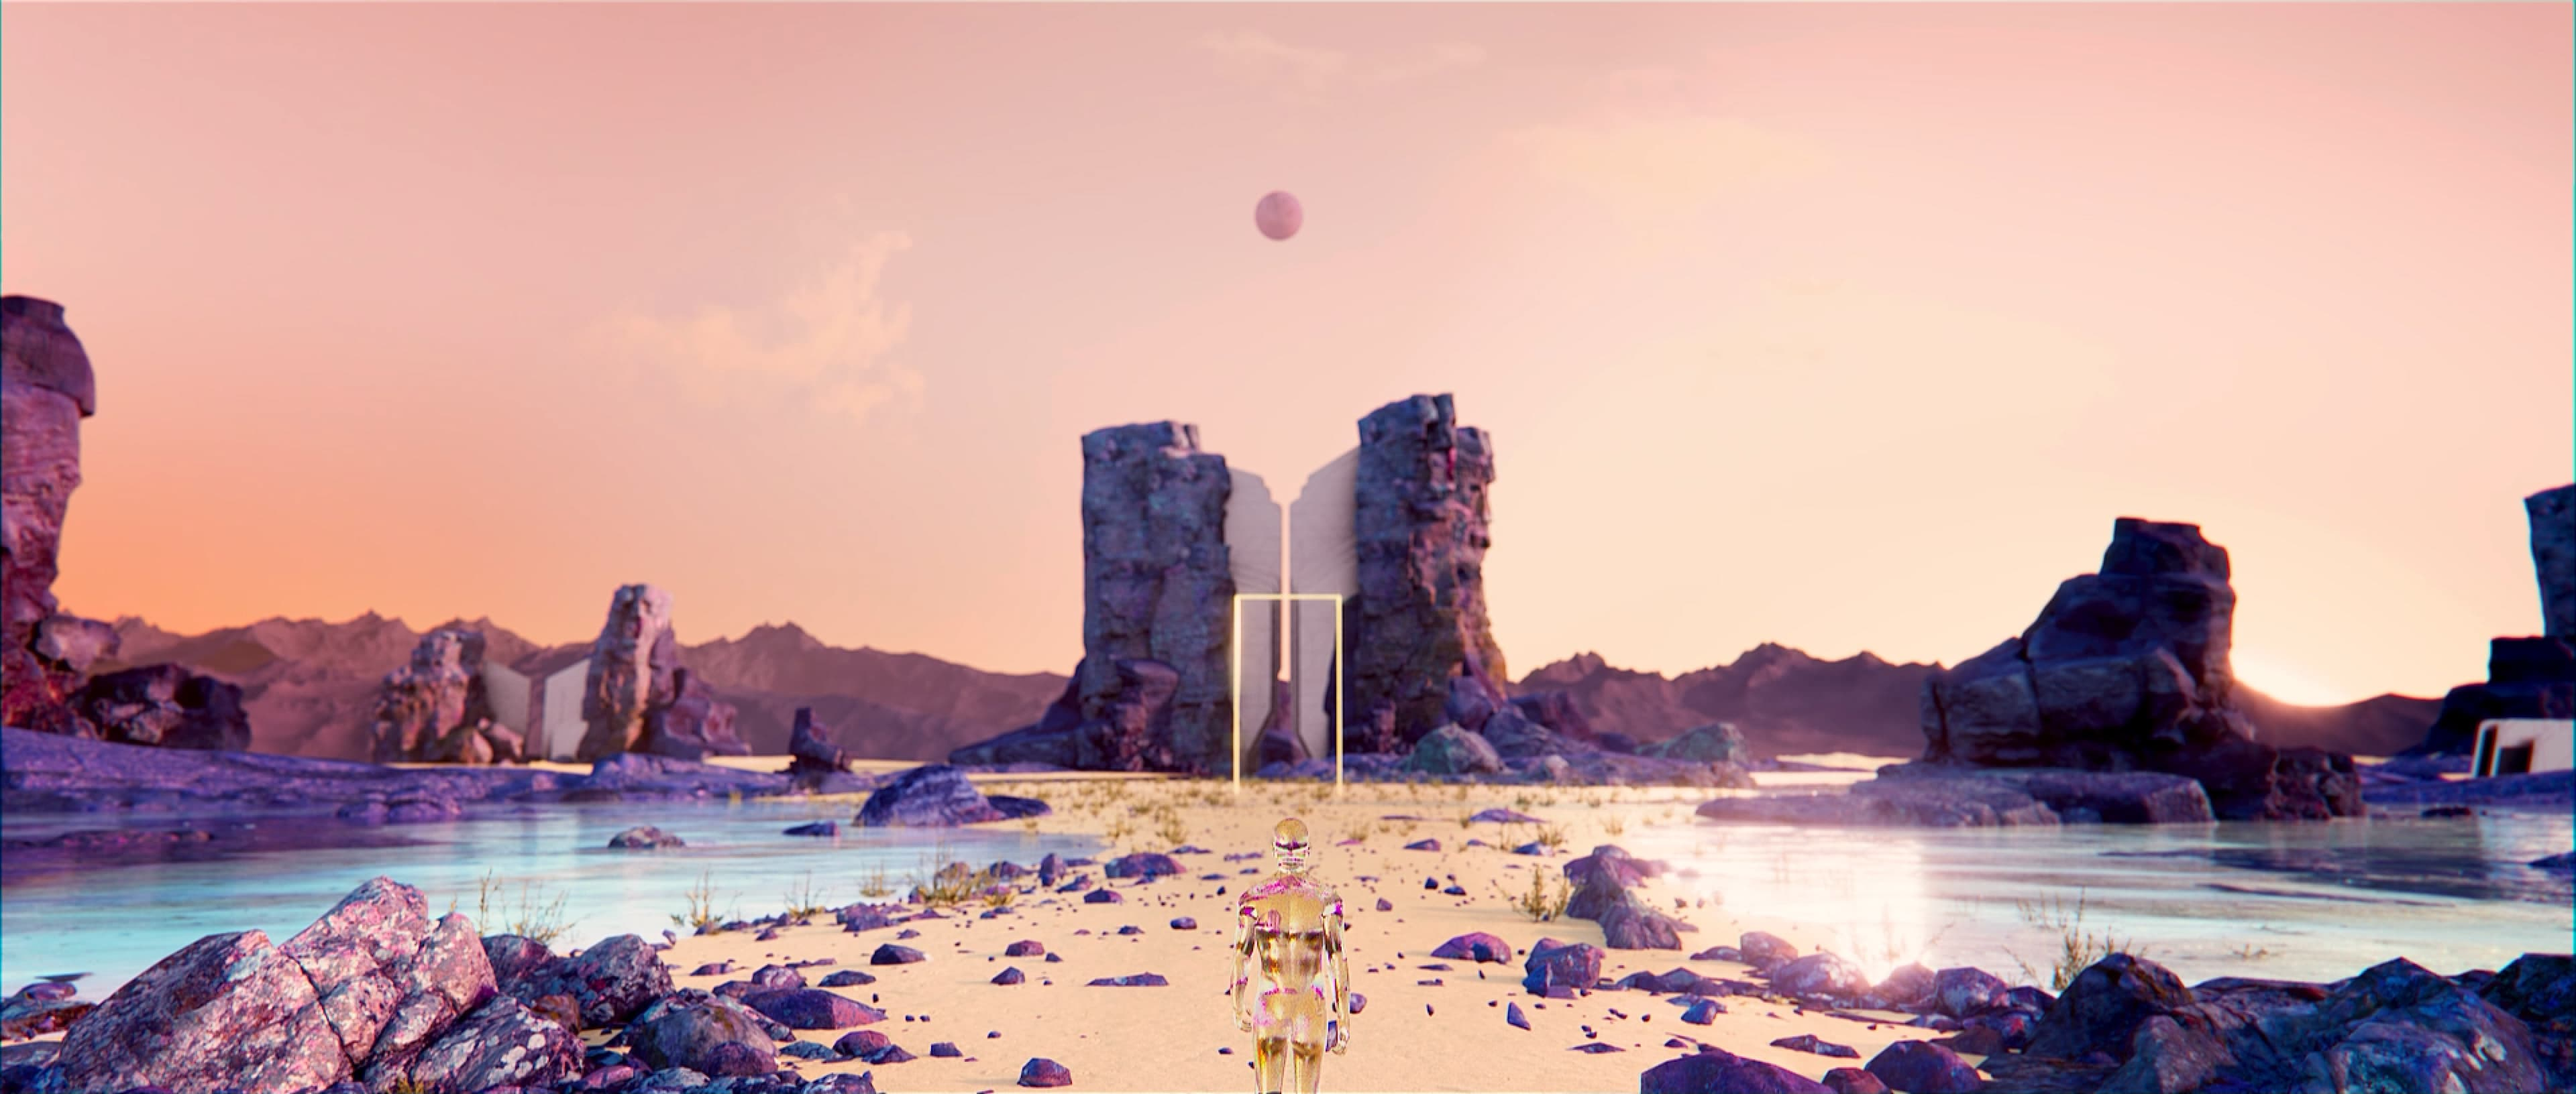
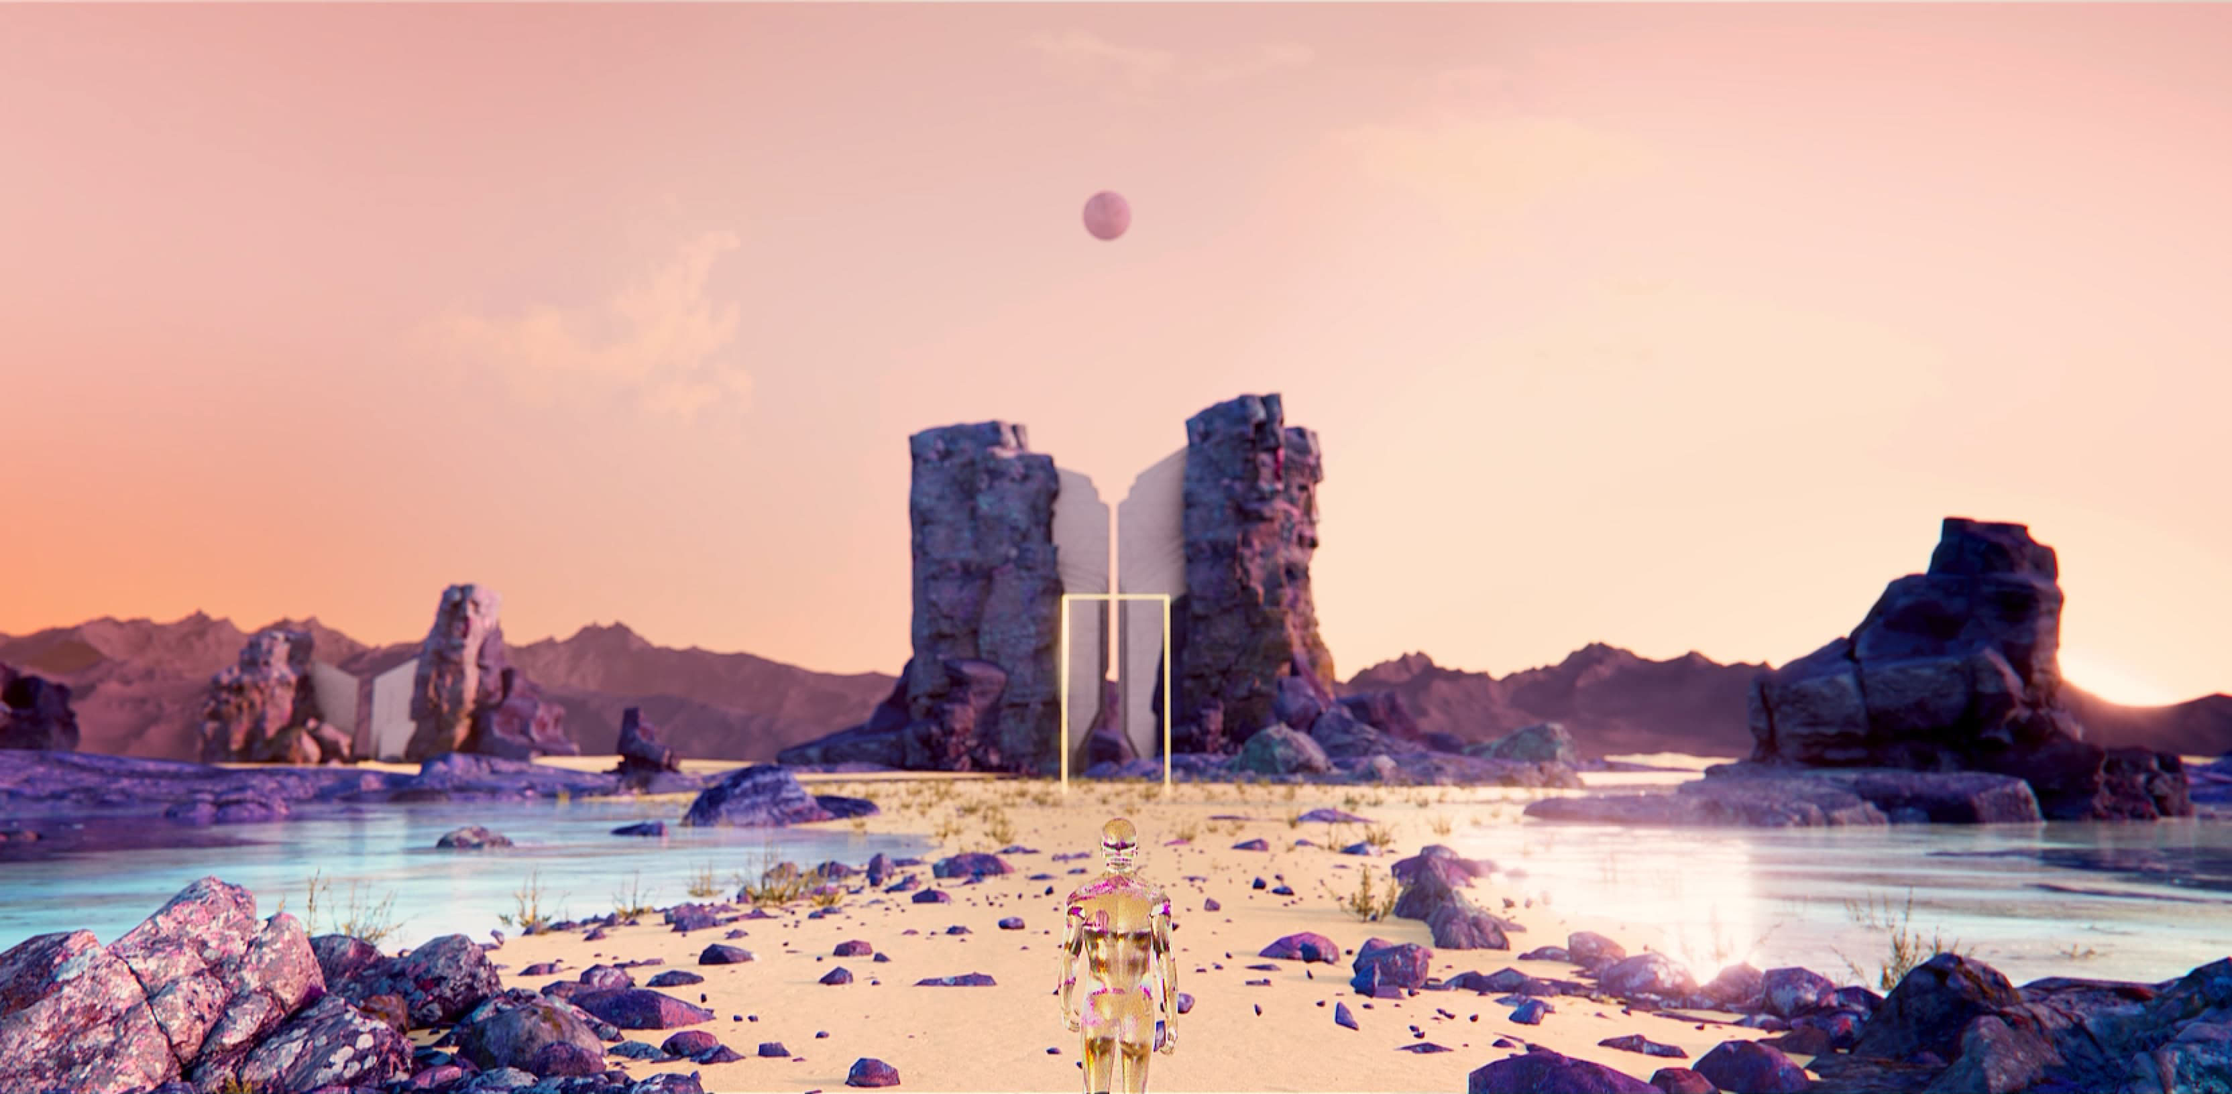
Hero animation - perf improuvment

diff --git a/components/SectionHero.vue b/components/SectionHero.vue
@@ -76,24 +76,30 @@ export default {
   },
 
   mounted() {
-    window.addEventListener('scroll', this.animation, false)
-
-    gsap.from(['.title span'], {
-      y: 50,
-      opacity: 0,
-      duration: 1.5,
-      ease: 'expo.out',
-      stagger: 0.2,
-      delay: 0,
-    })
-    gsap.to(['.background', '.section-hero .button-container'], {
-      opacity: 1,
-      pointerEvents: 'all',
-      duration: 2,
-      ease: 'expo.out',
-      delay: 2,
-      onComplete: () => (this.dataLoaded = true),
-    })
+    if (window.top.scrollY > 0) {
+      gsap.set('.section-hero .button-container', { autoAlpha: 0 })
+      gsap.set('.section-hero', { minHeight: 0 })
+      gsap.set('.background', { '--imageBorder': 1, autoAlpha: 1 })
+      gsap.set('.background__img', { scale: 0.8, yPercent: -54 })
+      gsap.set(['.title span'], { y: 0, opacity: 1 })
+      this.dataLoaded = true
+    } else {
+      window.addEventListener('scroll', this.animation, false)
+      gsap.to(['.title span'], {
+        y: 0,
+        opacity: 1,
+        duration: 1.5,
+        ease: 'expo.out',
+        stagger: 0.1,
+        onComplete: () => (this.dataLoaded = true),
+      })
+      gsap.to(['.background', '.section-hero .button-container'], {
+        autoAlpha: 1,
+        duration: 2,
+        ease: 'expo.out',
+        delay: 1,
+      })
+    }
   },
 
   beforeDestroy() {
@@ -108,51 +114,30 @@ export default {
     },
 
     animation() {
-      if (window.top.scrollY > 100) {
-        window.removeEventListener('scroll', this.animation, false)
+      window.removeEventListener('scroll', this.animation, false)
 
-        const duration = 0.8
-        const baseEase = 'expo.out'
+      const duration = 0.8
+      const baseEase = 'expo.out'
 
-        gsap.to(['.section-hero .button-container'], {
-          opacity: 0,
-          display: 'none',
-          pointerEvents: 'none',
-          duration: 0,
-          ease: baseEase,
-        })
-        gsap.to(['.section-hero'], {
-          minHeight: 0,
-          duration: duration * 1.5,
-          ease: baseEase,
-        })
+      gsap.killTweensOf('.section-hero .button-container')
+      gsap.to('.section-hero .button-container', {
+        autoAlpha: 0,
+      })
+      gsap.to('.section-hero', {
+        minHeight: 0,
+        duration: duration * 1.5,
+        ease: baseEase,
+      })
 
-        const title = this.$refs.title.getBoundingClientRect()
-
-        const windowWidth = window.innerWidth
-        const windowHeight = window.innerHeight
-        const scaleX = (windowWidth < 570 ? 120 : 242) / windowWidth
-        const scaleY =
-          ((title.top + title.height) * (windowWidth < 570 ? 1.25 : 1.4)) /
-          windowHeight
-        const invScaleX = 1 / scaleX
-        const invScaleY = 1 / scaleY
-
-        gsap.to('.background', {
-          opacity: 0.6,
-          yPercent: windowWidth < 570 ? -50 : -54,
-          xPercent: -50,
-          scaleX,
-          scaleY,
-          duration,
-        })
-
-        gsap.to('.background__img', {
-          scaleX: invScaleX,
-          scaleY: invScaleY,
-          duration,
-        })
-      }
+      gsap.to('.background', {
+        '--imageBorder': 1,
+        duration,
+      })
+      gsap.to('.background__img', {
+        scale: 0.8,
+        yPercent: -54,
+        duration,
+      })
     },
   },
 }
@@ -170,25 +155,38 @@ img
 .background
   position absolute
   overflow hidden
-  // top -6.5vw
-  // left: 50%
-  // width 37vw
-  // height 89.5vw
   opacity 0
-  // opacity 0.6
-  // background-color: #C4C4C4
-  background-color: #000
-  // background-image url('~/assets/images/elements/hero.jpg')
-  // background-size 800%
-  // background-position center
-  // background-repeat no-repeat
-  // transform: translateX(-50%)
   top 50%
   left: 50%
   width 100%
   height 100vh
   transform-origin: top
   transform: translate(-50%, -50%) scale(1)
+
+  --imageBorder 0
+
+  &::before,
+  &::after
+    content: ''
+    position absolute
+    display: block
+    background: var(--bg)
+    height: 100%
+    width: 30%
+    top: 0
+    left: 0
+    z-index: 1
+    transform-origin: left
+    transform: scaleX(var(--imageBorder))
+
+    @media $breakpoint-medium
+      width: 40%
+
+  &::after
+    left: initial
+    transform-origin: right
+    right: 0
+
   @media $breakpoint-medium
     top 50%
     left: 50%
@@ -200,7 +198,7 @@ img
     position absolute
     top 50%
     left 50%
-    width 100vw
+    width 100%
     height 100vh
     object-fit: cover
     transform: translate(-50%, -50%) scale(1)
@@ -220,6 +218,9 @@ img
     grid-column 3 / span 8
     padding-top 3rem
   span
+    opacity: 0
+    transform: translate(0, 50px)
+    will-change: transform, opacity
     position relative
     display inline-block
 
@@ -229,9 +230,10 @@ img
   justify-content center
   align-items center
   opacity 0
+  visibility: hidden
   margin-top var(--spacing-10)
   max-width: 17.25rem
-  pointer-events none
+
   @media $breakpoint-medium
     margin-inline: auto
     min-width 16rem
